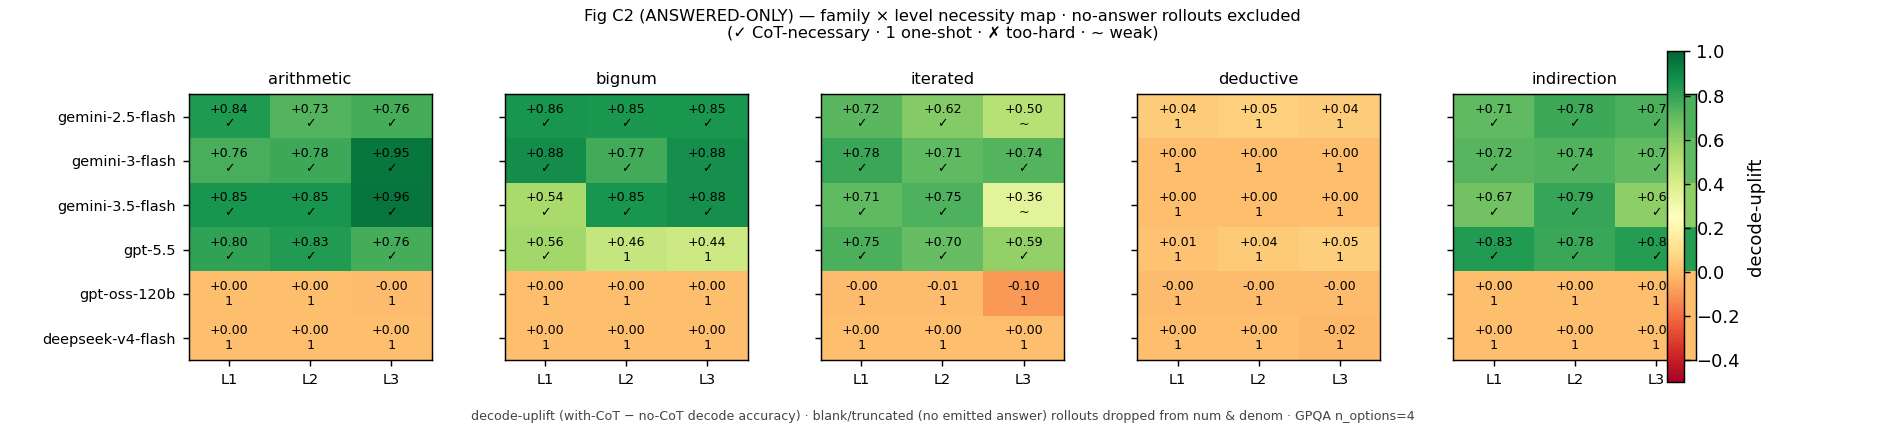
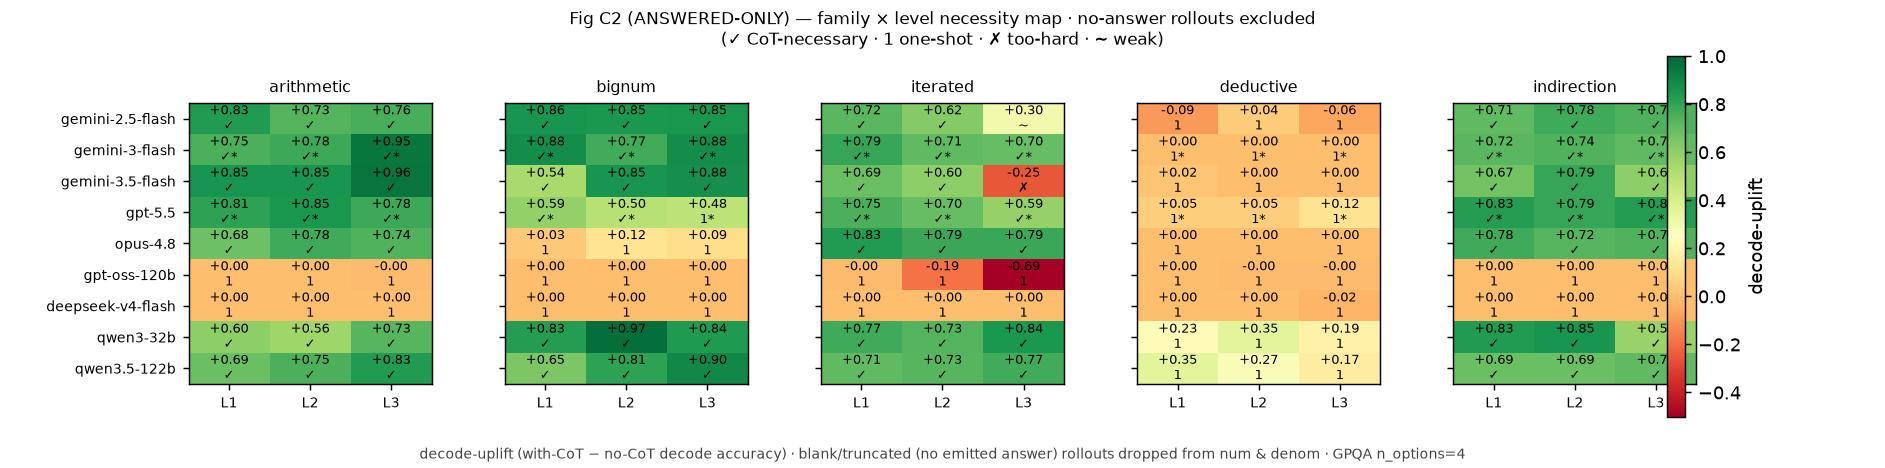
Add answered-only figC2 heatmap generator; update with both qwen models
The 'answered-only' necessity heatmap (decode accuracy over emitted-answer rollouts only,
blank/truncated dropped from num & denom) had no committed generator and was stale (6 actors,
pre-qwen). Added scripts/make_answered_only_heatmap.py (uses the emit_cot/emit_nocot fields the
self-host decode sweeps record; pre-emission JSONs fall back to full counts = answered-only for
reliably-emitting actors). Regenerated both copies with the full 9-actor decode order incl
qwen3-32b + qwen3.5-122b. qwen3-32b's no-CoT decode emission dips to ~0.81 on some cells, so its
answered-only view genuinely differs from the raw figC2.

diff --git a/scripts/make_answered_only_heatmap.py b/scripts/make_answered_only_heatmap.py
@@ -1,0 +1,70 @@
+#!/usr/bin/env python3
+"""Fig C2 ANSWERED-ONLY — the decode-necessity family×level heatmap with decode accuracy computed over
+ONLY the rollouts that emitted an answer (blank/truncated dropped from BOTH numerator and denominator).
+
+Uses the per-cell `emit_cot`/`emit_nocot` fields the self-host decode sweeps now record (answered
+count = round(emit × n)). Decode JSONs that predate those fields fall back to the full counts — which
+IS answered-only for reliably-emitting actors (the difference only matters for the undisableable-channel
+/ truncating cases). Writes the figures/3p1_complex_hints/ and figures/clean/ copies. No model calls.
+
+  uv run python scripts/make_answered_only_heatmap.py
+"""
+import json
+import sys
+from pathlib import Path
+
+import matplotlib
+matplotlib.use("Agg")
+import matplotlib.pyplot as plt  # noqa: E402
+
+sys.path.insert(0, str(Path(__file__).resolve().parent))
+from make_complex_figures import ACTOR_ORDER, ACTOR_LABEL, FAMILY_ORDER, LEVELS  # noqa: E402
+
+from cot_mon import figviz  # noqa: E402
+
+
+def answered_only_cells():
+    cells = []
+    for name in ACTOR_ORDER:
+        p = Path(f"results/decode_necessity/decode_necessity_{name}.json")
+        if not p.exists():
+            p = Path(f"logs/decode_necessity_{name}.json")
+        if not p.exists():
+            continue
+        for r in json.loads(p.read_text())["rows"]:
+            k_cot, n_cot, k_nocot, n_nocot = r["k_cot"], r["n_cot"], r["k_nocot"], r["n_nocot"]
+            ec, en = r.get("emit_cot"), r.get("emit_nocot")   # None on pre-emission decode JSONs
+            if ec is not None:                                # answered count; correct ⊆ answered so >= k
+                n_cot = max(round(ec * n_cot), k_cot, 1)
+            if en is not None:
+                n_nocot = max(round(en * n_nocot), k_nocot, 1)
+            cells.append(figviz.Cell(actor=name, family=r["family"], level=f"L{r['level']}",
+                                     k_cot=k_cot, n_cot=n_cot, k_nocot=k_nocot, n_nocot=n_nocot,
+                                     source=r.get("source", "fresh")))
+    return cells
+
+
+def draw(cells, outdir: Path):
+    fams = [f for f in FAMILY_ORDER if any(c.family == f for c in cells)]
+    fig, axes = plt.subplots(1, len(fams), figsize=(2.9 * len(fams), 3.6), squeeze=False)
+    im = None
+    for i, (ax, fam) in enumerate(zip(axes[0], fams)):
+        im = figviz.draw_necessity_heatmap(ax, cells, family=fam, levels=LEVELS,
+                                           actor_order=ACTOR_ORDER, actor_label=ACTOR_LABEL,
+                                           show_ylabels=(i == 0))
+    if im is not None:
+        fig.colorbar(im, ax=axes[0].tolist(), fraction=0.02, pad=0.02, label="decode-uplift")
+    fig.suptitle("Fig C2 (ANSWERED-ONLY) — family × level necessity map · no-answer rollouts excluded\n"
+                 "(✓ CoT-necessary · 1 one-shot · ✗ too-hard · ~ weak)", fontsize=9.5)
+    fig.text(0.5, 0.02, "decode-uplift (with-CoT − no-CoT decode accuracy) · blank/truncated (no emitted "
+             "answer) rollouts dropped from num & denom · GPQA n_options=4", ha="center", fontsize=7.5, color="#444")
+    fig.subplots_adjust(left=0.10, right=0.90, top=0.78, bottom=0.18, wspace=0.30)
+    return figviz.save(fig, outdir, "figC2_necessity_heatmap_answered_only")
+
+
+if __name__ == "__main__":
+    cells = answered_only_cells()
+    actors = [a for a in ACTOR_ORDER if any(c.actor == a for c in cells)]
+    print(f"answered-only heatmap: {len(actors)} actors -> {', '.join(actors)}")
+    for d in (Path("figures/3p1_complex_hints"), Path("figures/clean")):
+        print("  saved", draw(cells, d))